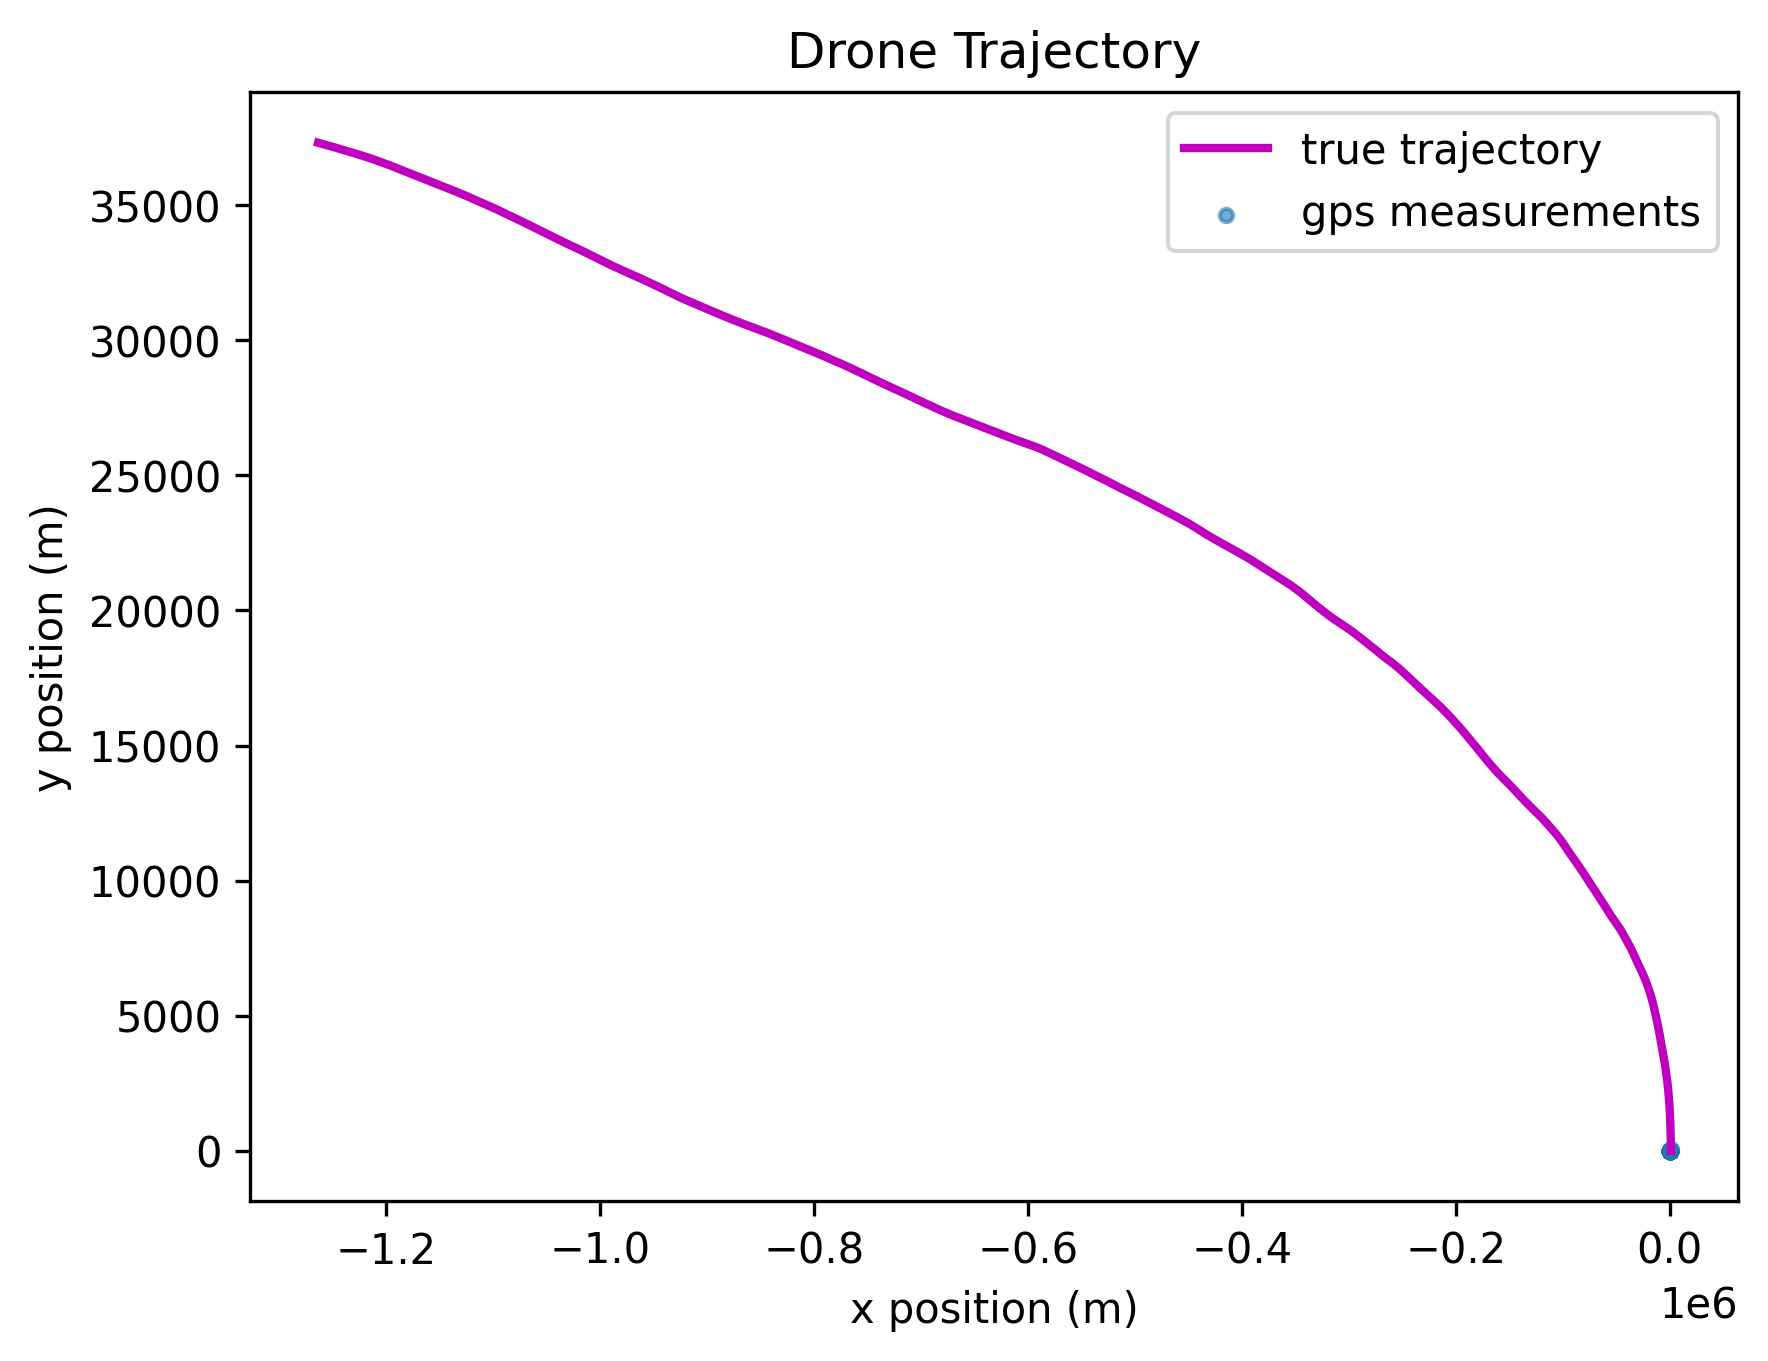
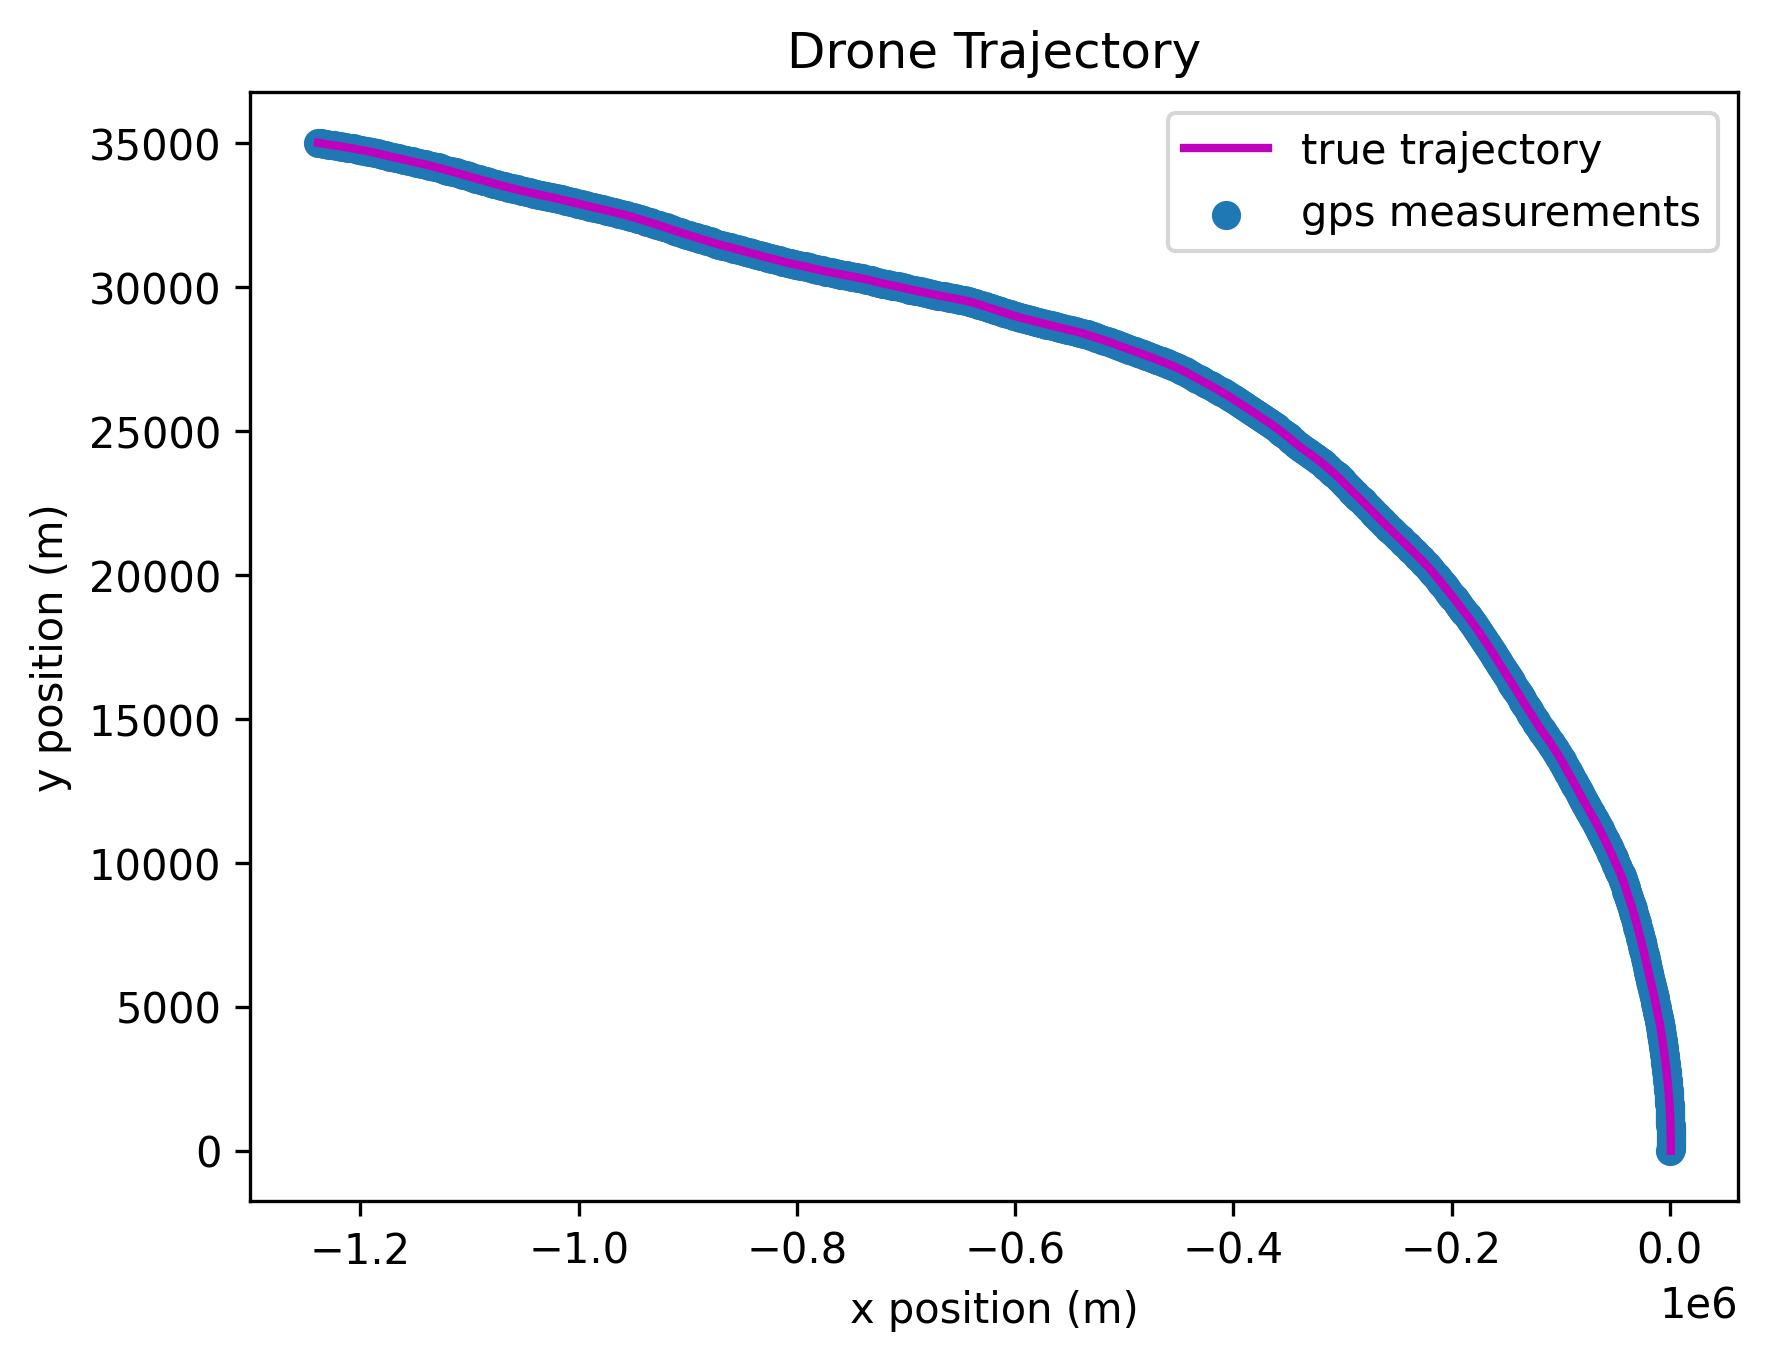
fixed a : to a + bruh

diff --git a/hw3/trajectory.py b/hw3/trajectory.py
@@ -1,5 +1,4 @@
 # simulate trajectory and measurement process of drone 
-from turtle import position
 import numpy as np 
 import matplotlib.pyplot as plt 
 
@@ -42,10 +41,10 @@ for i in range(N):
 
     # propogate forward
     x_t = A @ x_t + B @ u_t + np.vstack((np.zeros((2,1)), W_t)) 
-    y_t = C @ x_t + V_t
+    y_t = C @ x_t + V_t 
 
     trajectory[i+1] = x_t.ravel()
-    measurements[i:1] = y_t.ravel()
+    measurements[i+1] = y_t.ravel()
 
 # plot some example trajectories 
 p1 = trajectory[:, 0]
@@ -54,7 +53,7 @@ y1 = measurements[:, 0]
 y2 = measurements[:, 1]
 
 plt.plot(p1, p2, '-m', linewidth=2, label='true trajectory')
-plt.scatter(y1, y2, s=10, alpha=0.6, label='gps measurements')
+plt.scatter(y1, y2, label='gps measurements')
 plt.xlabel('x position (m)')
 plt.ylabel('y position (m)')
 plt.title('Drone Trajectory')
